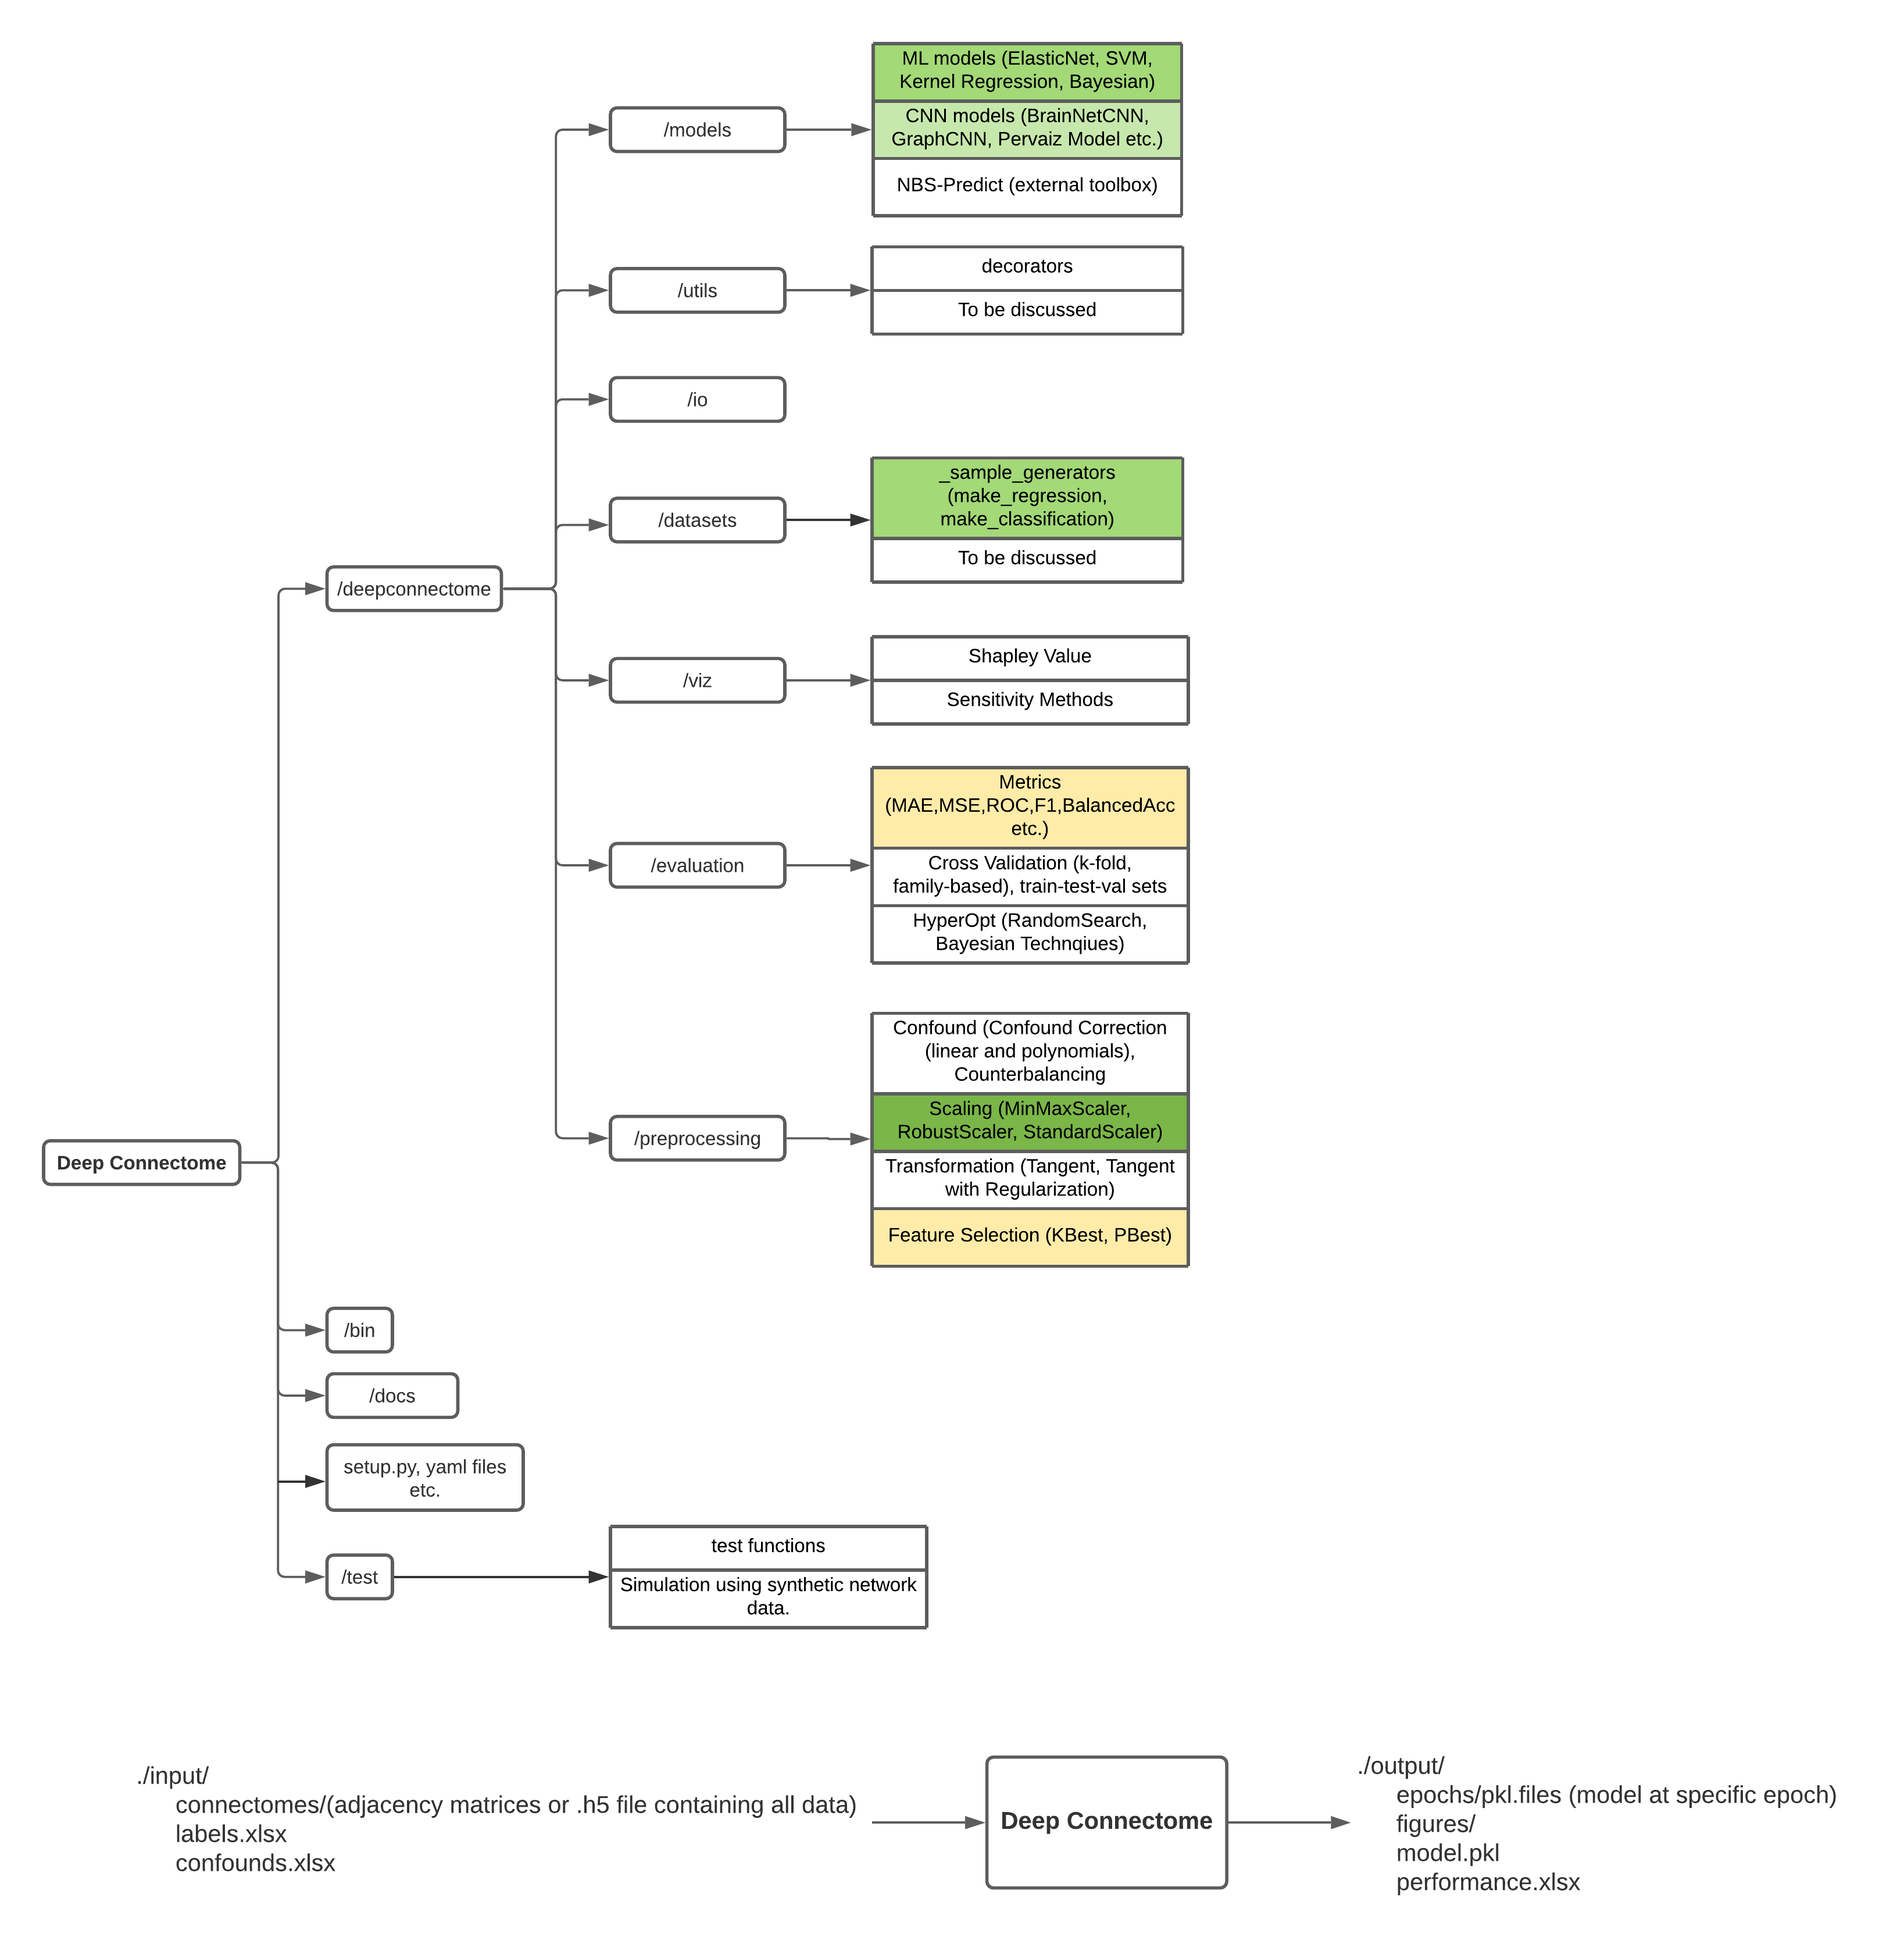
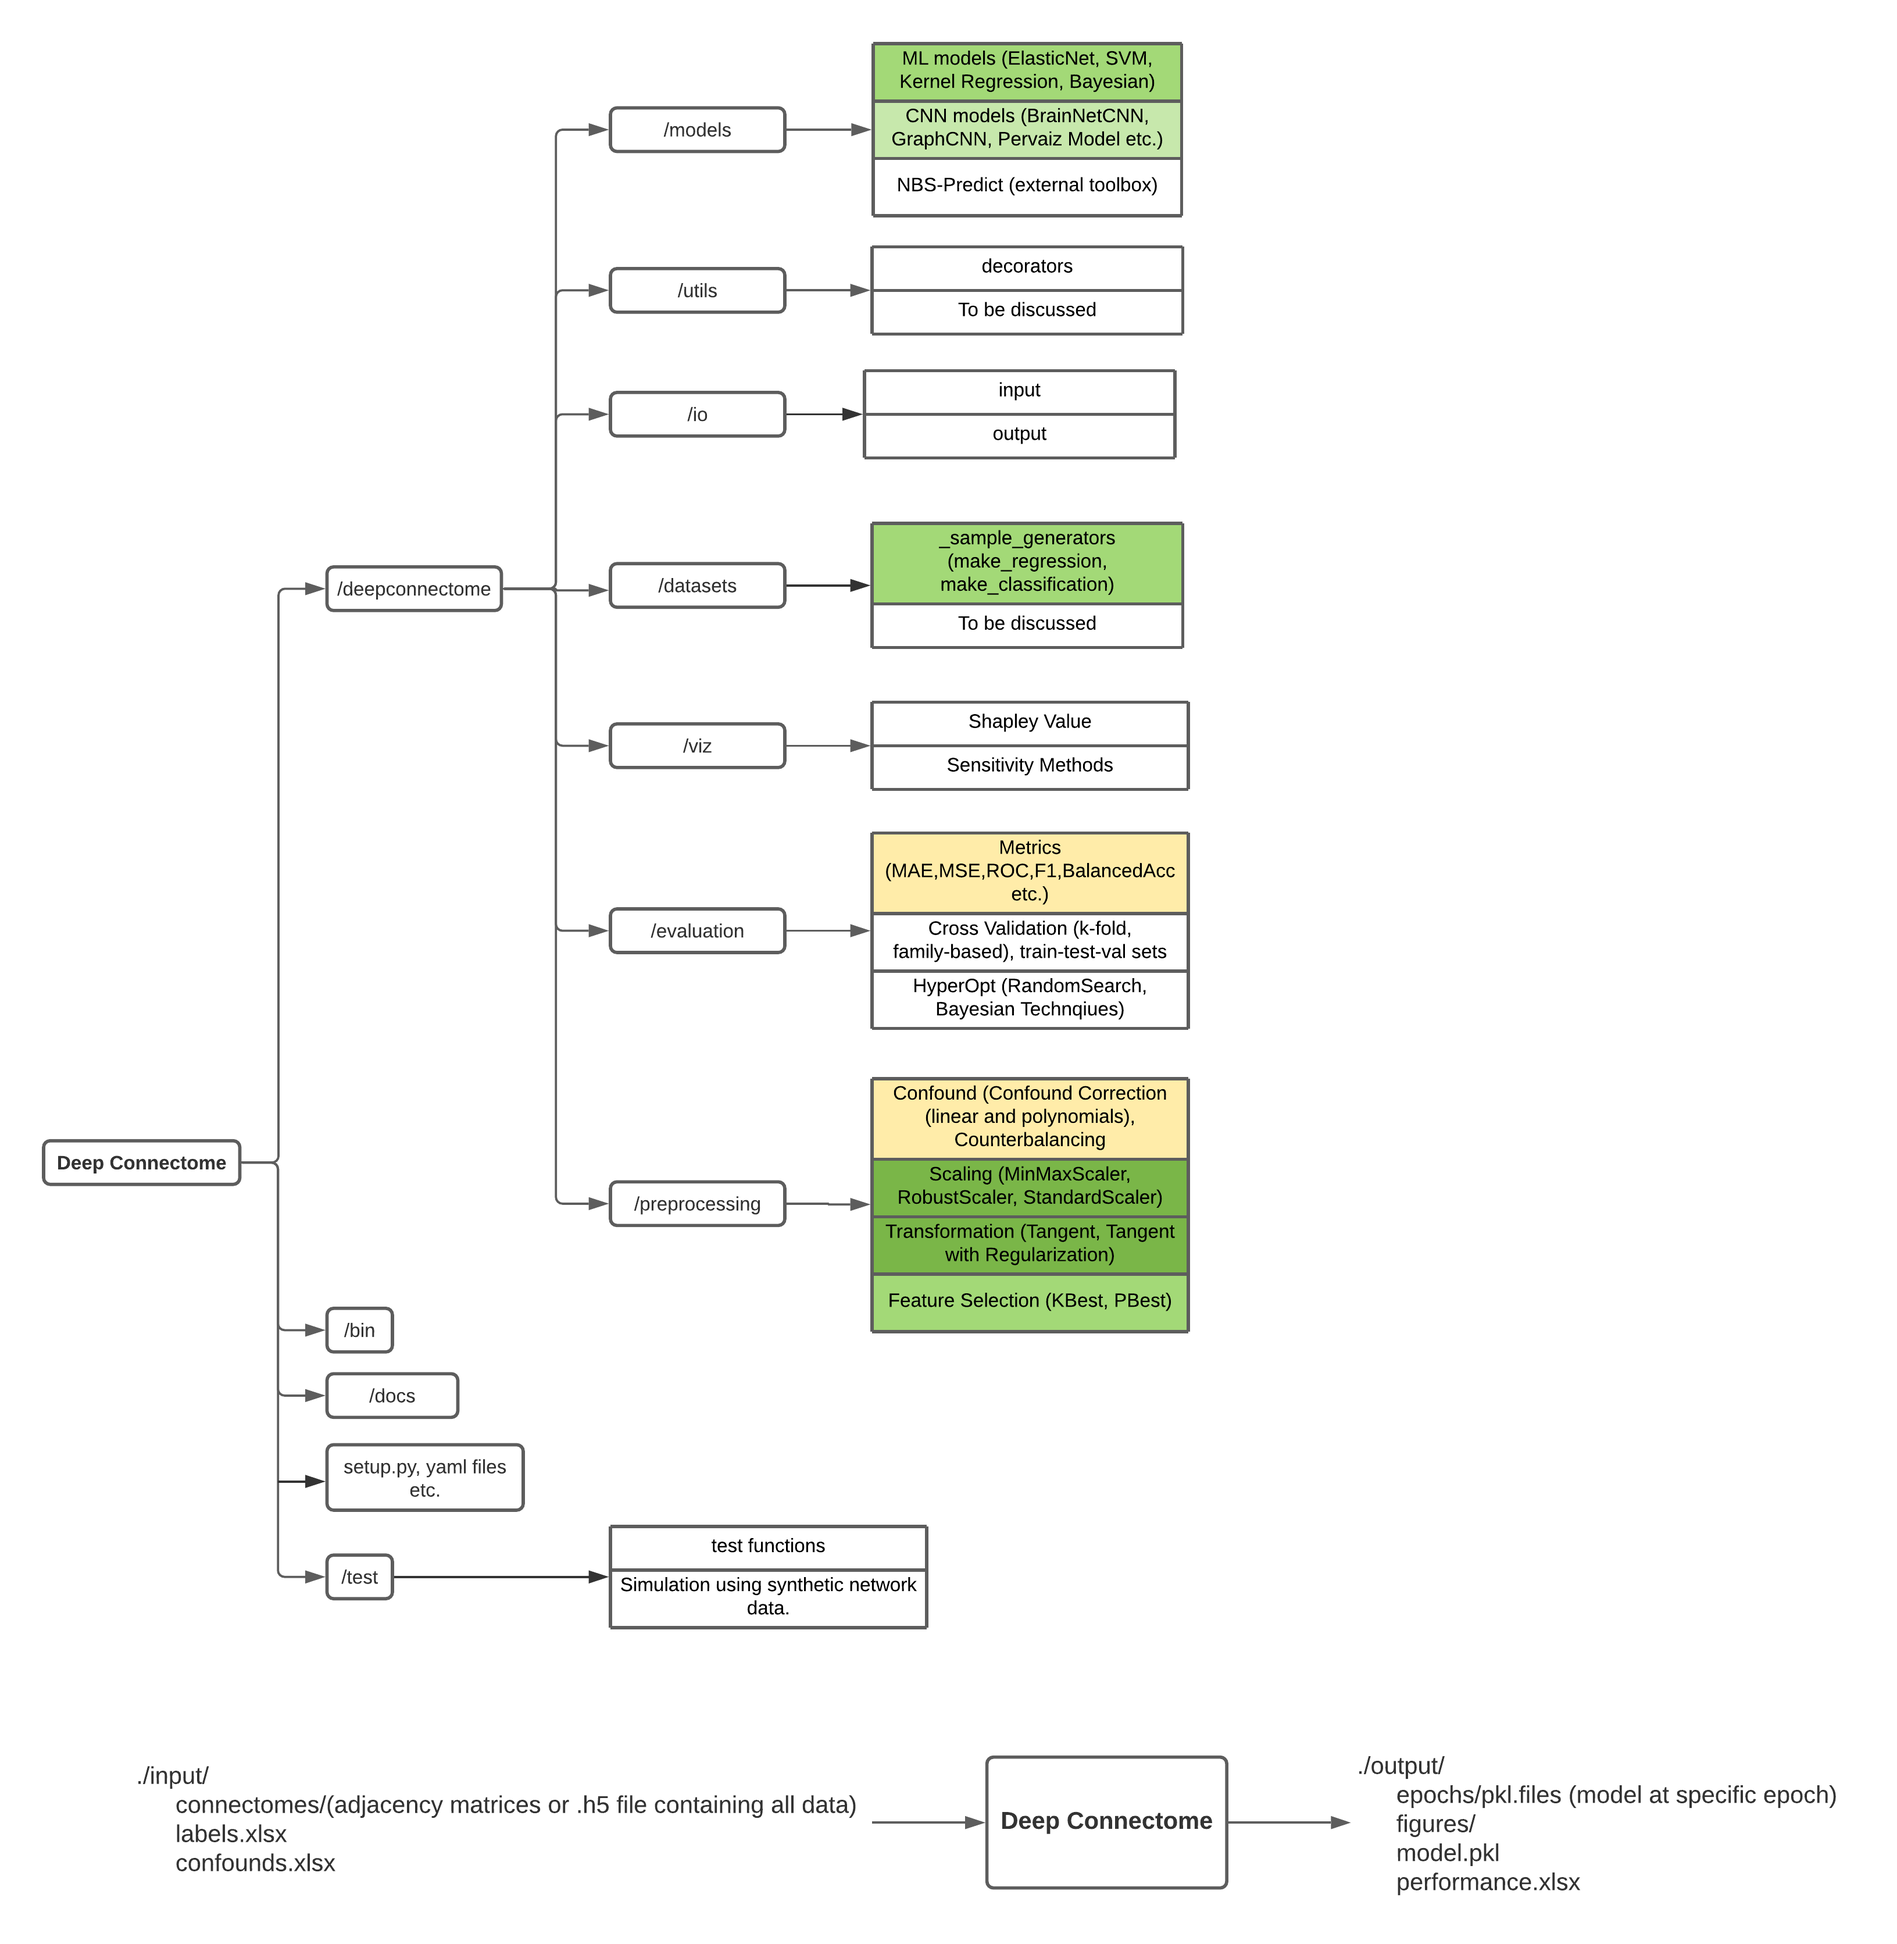
- Add functions to transform given covariance (or correlation) matrices to positive definite, and/or into tangent space.

diff --git a/deepconnectome/preprocessing/transformation.py b/deepconnectome/preprocessing/transformation.py
@@ -5,6 +5,11 @@ is only supported for generic linear machine learning algorithms such as Linear 
 """
 
 import numpy as np
+from deepconnectome.preprocessing.utils import ref_harmonic, ref_kullback, \
+    ref_euclidian, ref_log_euclidian, shrink_to_group, is_positive_definite, \
+    closest_symmetric, ensure_dims
+from sklearn.base import TransformerMixin
+from sklearn.covariance import ledoit_wolf, oas
 
 
 def haufe_transformation(X, coef):
@@ -52,3 +57,208 @@ def haufe_transformation(X, coef):
     return X.T.dot(X.dot(norm_cov_mat.T))
 
 
+def _find_nearest_positive_definite(X):
+    """ Find the nearest positive-definite matrix to input.
+
+    A python port of the code written by John D'Errico.
+
+    Args:
+        X (numpy.ndarray): Input matrix.
+
+    Returns:
+        (numpy.ndarray): Nearest positive definite matrix to the
+            input matrix.
+
+    References:
+        N.J. Higham, "Computing a nearest symmetric positive semidefinite
+            matrix" (1988): https://doi.org/10.1016/0024-3795(88)90223-6
+        https://www.mathworks.com/matlabcentral/fileexchange/42885-nearestspd
+        https://gist.github.com/fasiha/fdb5cec2054e6f1c6ae35476045a0bbd
+    """
+
+    # Check input matrix is symmetric,
+    # otherwise, find the closest symmetric matrix.
+    X_sym = closest_symmetric(X)
+
+    # Take eigen-decomposition of the symmetric X matrix.
+    _, sigma, V = np.linalg.svd(X_sym)
+
+    # Extract diagonal sigma matrix and
+    # compute symmetric polar factor, which is SPD.
+    symmetric_polar = V.T.dot(np.diag(sigma).dot(V))
+    X_pos_def = (X_sym + symmetric_polar) / 2
+
+    # Make sure that the transformed matrix is symmetric
+    X_pos_def = closest_symmetric(X_pos_def)
+
+    if is_positive_definite(X_pos_def):
+        return X_pos_def
+
+    # Tweak matrix a little bit to make it positive definite
+    # if transformed matrix is still not positive definite.
+    # It adds tiny multiple of identity matrix.
+    spacing = np.spacing(np.linalg.norm(X))
+    identity_mat = np.eye(X.shape[0])
+    k = 1
+    while not is_positive_definite(X_pos_def):
+        min_eig = np.min(np.real(np.linalg.eigvals(X_pos_def)))
+        X_pos_def += identity_mat * (-min_eig * k ** 2 + spacing)
+        k += 1
+
+    return X_pos_def
+
+
+# Transforming matrices into nearest positive definite matrix
+def transform_to_positive_definite(matrices, verbose=False):
+    """Transforms input matrix to the nearest positive definite matrix.
+
+    Args:
+        matrices (numpy.ndarray): Input matrix
+        verbose (bool): Whether to print progress.
+
+    Returns:
+        (numpy.ndarray): Positive definite matrices.
+    """
+    matrices_pd = np.empty_like(matrices)
+    for i, x in enumerate(matrices):
+        matrices_pd[i] = _find_nearest_positive_definite(x)
+        if verbose:
+            if i % 100 == 0:
+                print(f"\rTransforming matrices {i}/{len(matrices_pd)} to positive definite...",
+                      end="", flush=True)
+    if verbose:
+        print(f"\rMatrices were successfully transformed to positive definite.\n",
+              end="", flush=True)
+    return matrices_pd
+
+
+class TangentSpace(TransformerMixin):
+    """ Transforms positive definite covariance matrices
+    into tangent space.
+
+    Transforming covariance matrices (or positive definite
+    correlation matrices) into tangent space has been shown to
+    provide significantly higher prediction performance
+    (Dadi et al., 2019; Pervaiz et al., 2020).
+
+    Args:
+        ref (str): Method to compute mean reference matrix.
+            Options are: 'euclidian', 'log_euclidian', 'harmonic', 'kullback'
+        shrink (str): Shrinkage estimator to shrink covariance or tangent
+            projected matrices. Options are: 'ledoit_wolf', 'oas',
+            'shrink_to_group'
+        verbose (bool): Whether to print progress.
+
+    Returns:
+        (numpy.ndarray): Matrices projected to tangent space.
+
+    References:
+        Dadi, Kamalaker, et al. "Benchmarking functional connectome-based predictive models for resting-state fMRI."
+            NeuroImage 192 (2019): 115-134.
+        Pervaiz, Usama, et al. "Optimising network modelling methods for fMRI." Neuroimage 211 (2020): 116604.
+    """
+    def __init__(self, ref="euclidian", shrink=None, verbose=False):
+        ref_opts = {'euclidian': ref_euclidian,
+                    'log_euclidian': ref_log_euclidian,
+                    'harmonic': ref_harmonic,
+                    'kullback': ref_kullback}
+        shrink_opts = {'ledoit_wolf': ledoit_wolf,
+                       'oas': oas,
+                       'shrink_to_group': shrink_to_group}
+        self.ref_func = ref_opts[ref]
+        self.shrink = shrink
+        self.verbose = verbose
+
+        if shrink is not None:
+            if shrink in shrink_opts:
+                self._shrink_func = shrink_opts[shrink]
+            else:
+                raise ValueError('Shinkage estimator is not found!')
+
+    @ensure_dims
+    def _check_positive_definite(self, X):
+        """Checks whether input matrices are positive definite."""
+        if len(X.shape) == 2:
+            return is_positive_definite(X)
+        for cov in X:
+            if not is_positive_definite(cov):
+                raise ValueError('Input matrix is not positive definite!')
+
+    def _map_shrinkage(self, X, shrinkage_estimator='ledoit_wolf'):
+        """Applies shrinkage each covariance matrix in X dataset."""
+        if shrinkage_estimator not in ('ledoit_wolf', 'oas'):
+            raise ValueError('Shinkage estimator parameter is not found!')
+        shrinkage_func = eval(shrinkage_estimator)
+        return np.array([shrinkage_func(cov)[0] for cov in X])
+
+    def _form_symmetric_matrix(self, X, func=None):
+        """Constructs a symmetric matrix from a given X matrix using
+        eigenvalues and eigenvectors computed from the input matrix.
+        While constructing, it also applies a custom function to eigenvalues
+        to transform the matrix space."""
+        if func is None:
+            func = lambda x: 1. / np.sqrt(x)
+        eigenvalues, eigenvectors = np.linalg.eigh(X)  # EVD on reference mean covariance matrix
+        return np.dot(eigenvectors * func(eigenvalues), eigenvectors.T)
+
+    def fit(self, X, y=None):
+        """Fits the tangent space transformer to the given X matrix.
+
+        Args:
+            X (numpy.ndarray): Input matrix.
+            y (None): Placeholder variable; no effect on function.
+
+        Returns:
+            self: TangentSpace instance.
+                The object itself. Useful for chaining operations.
+        """
+        self._check_positive_definite(X)
+        if hasattr(self, "_shrink_func"):
+            X = self._shrink_func(X)
+        self._ref_mean = self.ref_func(X)
+        self._whitening = self._form_symmetric_matrix(self._ref_mean)
+        return self
+
+    def transform(self, X, y=None):
+        """ Projects the input covariance matrices into tangent space
+        using computed reference mean matrix.
+
+        Args:
+            X (numpy.ndarray): Input matrix.
+            y (None): Placeholder variable; no effect on function.
+
+        Returns:
+            (numpy.ndarray): Transformed matrix.
+        """
+        self._check_positive_definite(X)
+        X_trans = np.zeros_like(X)
+        for i, mat in enumerate(X):
+            X_trans[i] = self._form_symmetric_matrix(
+                self._whitening.dot(mat).dot(self._whitening), np.log)
+
+        if self.shrink == 'shrink_to_group':
+            return shrink_to_group(X_trans, self._ref_mean)
+        return X_trans
+
+    def inverse_transform(self, X_trans, y=None):
+        """ Inverse transform from tangent space to covariance matrix (Riemannian space).
+
+        It does not work if shrinkage estimator has been used.
+
+        Args:
+            X_trans (numpy.ndarray): Transformed matrix (i.e. matrices in tangent space).
+            y (None): Placeholder variable; no effect on function.
+
+        Returns:
+            (numpy.ndarray): Inverse transformed, covariance matrices.
+        """
+        if self.shrink is not None:
+            raise NotImplementedError('Inverse transformation for shrunk covariance matrix has not been implemented!')
+
+        sqrt_whitening = self._form_symmetric_matrix(self._ref_mean, lambda x: np.sqrt(x))
+        X_untrans = np.zeros_like(X_trans)
+
+        for i, mat in enumerate(X_trans):
+            X_untrans[i] = sqrt_whitening.dot(
+                self._form_symmetric_matrix(mat, np.exp)).dot(sqrt_whitening)
+        return X_untrans

diff --git a/deepconnectome/preprocessing/utils.py b/deepconnectome/preprocessing/utils.py
@@ -6,6 +6,8 @@ related to preprocessing.
 import numpy as np
 import networkx as nx
 from functools import wraps
+from scipy import stats
+from deepconnectome.io.utils import check_symmetric
 
 
 class ConnectedComponent:
@@ -71,3 +73,125 @@ def matrix_stats_decorator(func):
         return stat, p
 
     return wrapper
+
+
+def ensure_dims(func):
+    """Decorator function to ensure that the input
+    matrix is in either NxN or MxNxN shape."""
+
+    @wraps(func)
+    def wrapper(X, *args, **kwargs):
+        X_dim = X.shape
+        if (X_dim[-1] != X_dim[-2]) or len(X_dim) > 3:
+            raise ValueError('Input array must have dimensions of NxN or MxNxN!')
+        return func(X, *args, **kwargs)
+
+    return wrapper
+
+
+def is_positive_definite(X):
+    """Checks if given matrix is positive definite.
+
+    Args:
+        X (numpy.ndarray): Input matrix.
+
+    Returns:
+        (bool): Whether input matrix is positive definite.
+
+    References:
+        https://stackoverflow.com/questions/43238173/python-convert-matrix-to-positive-semi-definite
+    """
+    try:
+        _ = np.linalg.cholesky(X)
+        return True
+    except np.linalg.LinAlgError:
+        return False
+
+
+@ensure_dims
+def closest_symmetric(X):
+    """Finds closest symmetric matrix to X matrix.
+
+    Args:
+        X (numpy.ndarray): Input matrix.
+
+    Returns:
+        X (numpy.ndarray): Symmetric matrix closest to the input matrix.
+    """
+    if not check_symmetric(X):
+        return (X + X.T) / 2
+    return X
+
+
+@ensure_dims
+def ref_euclidian(X):
+    """ Takes euclidian mean of input matrix.
+
+    Args:
+        X (numpy.ndarray): Input matrix.
+
+    Returns:
+        (numpy.ndarray): Mean matrix.
+    """
+    return np.mean(X, axis=0)
+
+
+@ensure_dims
+def ref_log_euclidian(X):
+    """Computes log euclidian mean of input matrix.
+
+    Args:
+        X (numpy.ndarray): Input matrix.
+
+    Returns:
+        (numpy.ndarray): Mean matrix.
+    """
+    return np.exp(np.nanmean(np.log(X), axis=0))
+
+
+@ensure_dims
+def ref_harmonic(X):
+    """Computes harmonic mean of input matrix.
+
+    Args:
+        X (numpy.ndarray): Input matrix.
+
+    Returns:
+        (numpy.ndarray): Mean matrix.
+    """
+    return np.linalg.inv(np.mean(np.linalg.inv(X), axis=0))
+
+
+@ensure_dims
+def ref_kullback(X):
+    """Computes Kullback mean of input matrix.
+
+    Kullback mean is a geometric mean of euclidian and
+    harmonic mean of input matrix.
+
+    Args:
+        X (numpy.ndarray): Input matrix.
+
+    Returns:
+        (numpy.ndarray): Mean matrix.
+
+    References:
+        Pervaiz, Usama, et al. "Optimising network modelling methods for fMRI." Neuroimage 211 (2020): 116604.
+    """
+    return np.nan_to_num(stats.mstats.gmean(np.array([ref_log_euclidian(X), ref_harmonic(X)]), axis=0), nan=0)
+
+
+def shrink_to_group(tangent_mat, ref_mat, alpha=0.1):
+    """Shrinkage estimator to shrink tangent matrix to
+    group mean.
+
+    Args:
+        tangent_mat (numpy.ndarray): tangent matrix projected from covariance matrix.
+        ref_mat (numpy.ndarray): group average reference matrix.
+        alpha (numpy.float): shrinkage term. Higher values result in greater shrinkage
+            to the group average.
+
+    Returns:
+        (numpy.ndarray): Shrunk tangent matrix.
+    """
+    return (1 - alpha) * tangent_mat + (alpha * ref_mat)
